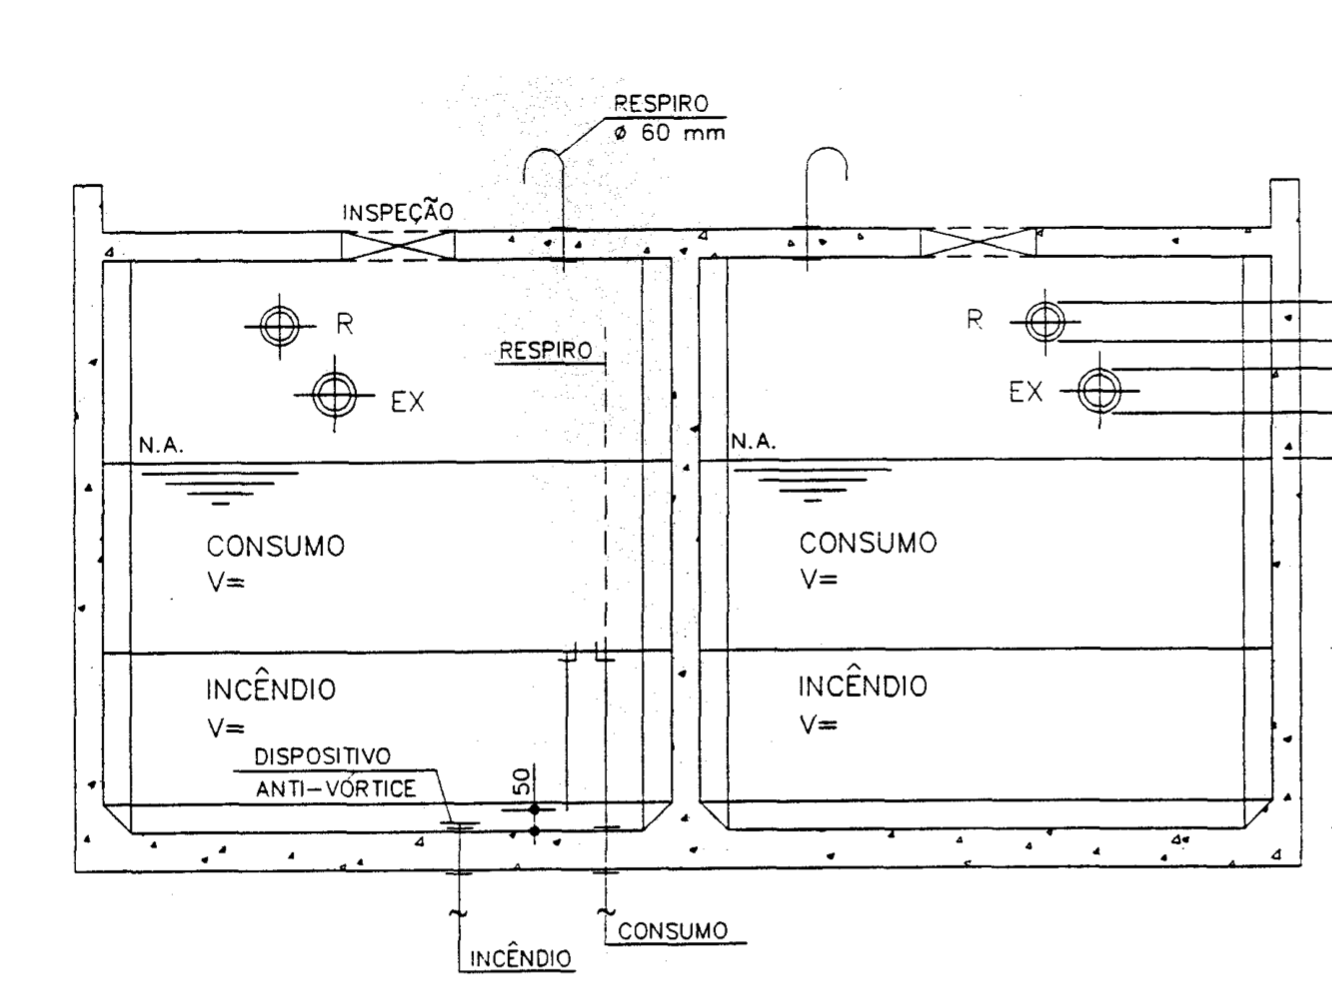
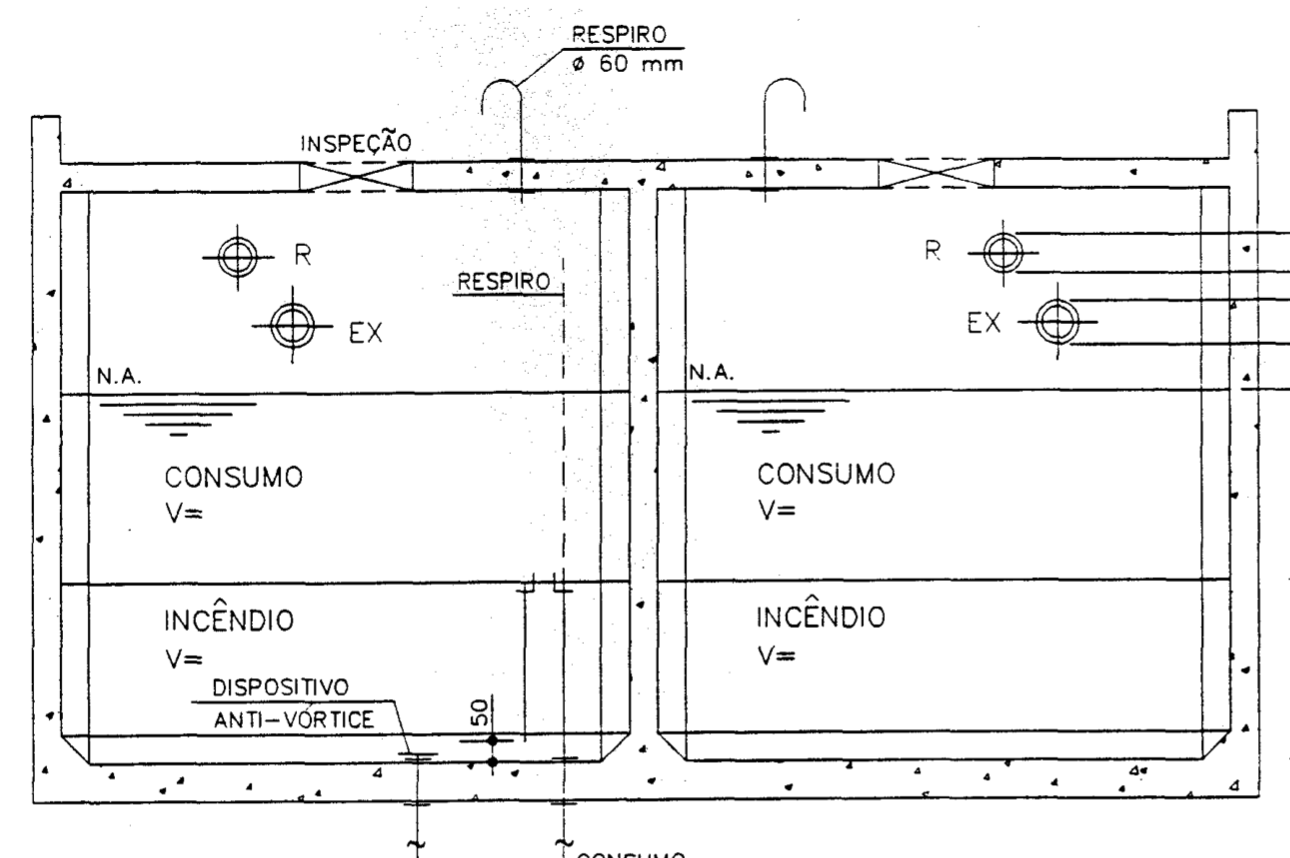
rel reserv

Changed region(s): [[0.031, 0.0303, 1.0, 1.0], [0.031, 0.1212, 0.062, 0.1515]]

diff --git a/reportwatersupply.html b/reportwatersupply.html
@@ -170,10 +170,13 @@
                     </td>
                 </tr>
             </table>
-            <table class="my-table2" style="width: 28%; height: 308px; background: url(../images/tank.png) no-repeat;background-size: 85% 65% !important; background-position:35% 40%; float:left;">
+            <table class="my-table2" style="width: 28%; height: 308px; float:left; border-left: 0px !important;">
                 <tbody>
                     <tr>
-                        <td></td>
+                        <td>
+                            <p style="text-align:center"> Detalhe construtivo</p>
+                            <img src=images/tank.png alt="Reservatório" class="img-responsive" style="margin:auto; max-width: 300px">
+                        </td>
                     </tr>
                 </tbody>
             </table>
@@ -196,8 +199,10 @@
             <p> Seguindo o contexto dos prédios com área de lazer e áreas comuns, caso a edificação contenha instalações adicionais também deve ser somado ao consumo diário relativo a população do prédio. Assim, para um prédio residencial: </p>
 
             <p class=eqcenter> CD = (Número de pavimentos * Número de apartamentos * Número de pessoas * Consumo Per Capita) + Quantidade de refeições servidas * Consumo por refeição + Quantidade de lugares no cinema * Consumo por lugar + Quantidade de lugares no templo * Consumo por lugar + Quantidade de funcionários * Consumo por funcionário</p>
+            
+            <p class=eqcenter> CD = (<span class="npav"></span> * <span class="napt"></span> * <span class="npes"></span> * <span class="percap"></span>) + <span class="qtdrest"></span> * <span class="percaprest"></span> + <span class="qtdcine"></span> * <span class="percapcine"></span> + <span class="qtdtemplo"></span> * <span class="percaptemplo"></span> + <span class="qtdfunc"></span> * <span class="percapfunc"></span></p>
 
-            <p class=eqcenter> Calculando, temos CD = <span class="cd"></span></p>
+            <p class=eqcenter> Calculando, temos CD = <span class="cd"></span> litros</p>
 
             <p class="report-h2"> II. Capacidade dos reservatórios </p>
 

diff --git a/css/creative.css b/css/creative.css
@@ -1093,6 +1093,12 @@ li{
     border-left: 0px !important;
 }
 
+.my-table2 tr,
+.my-table2 td,
+.my-table2 tr td {
+    border: none !important;
+}
+
 .sectiondata tr td .tdconc{
     border-right: 1px !important;
 }
